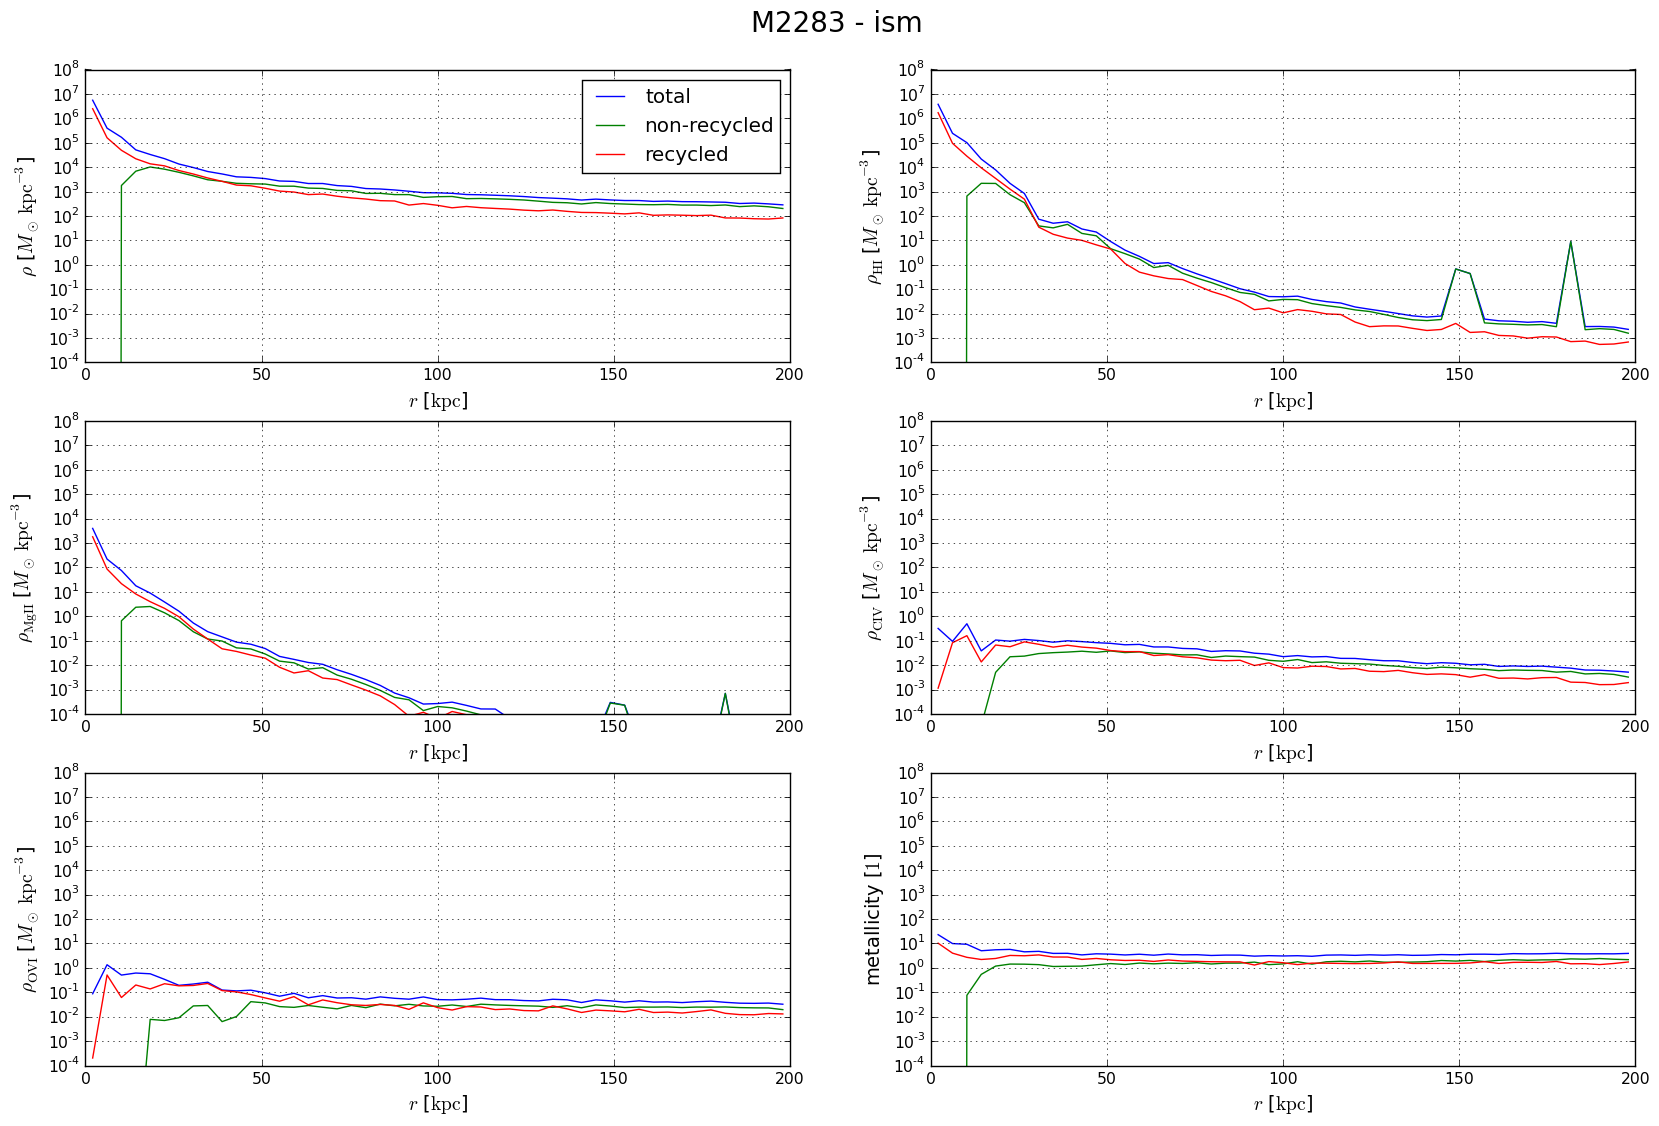
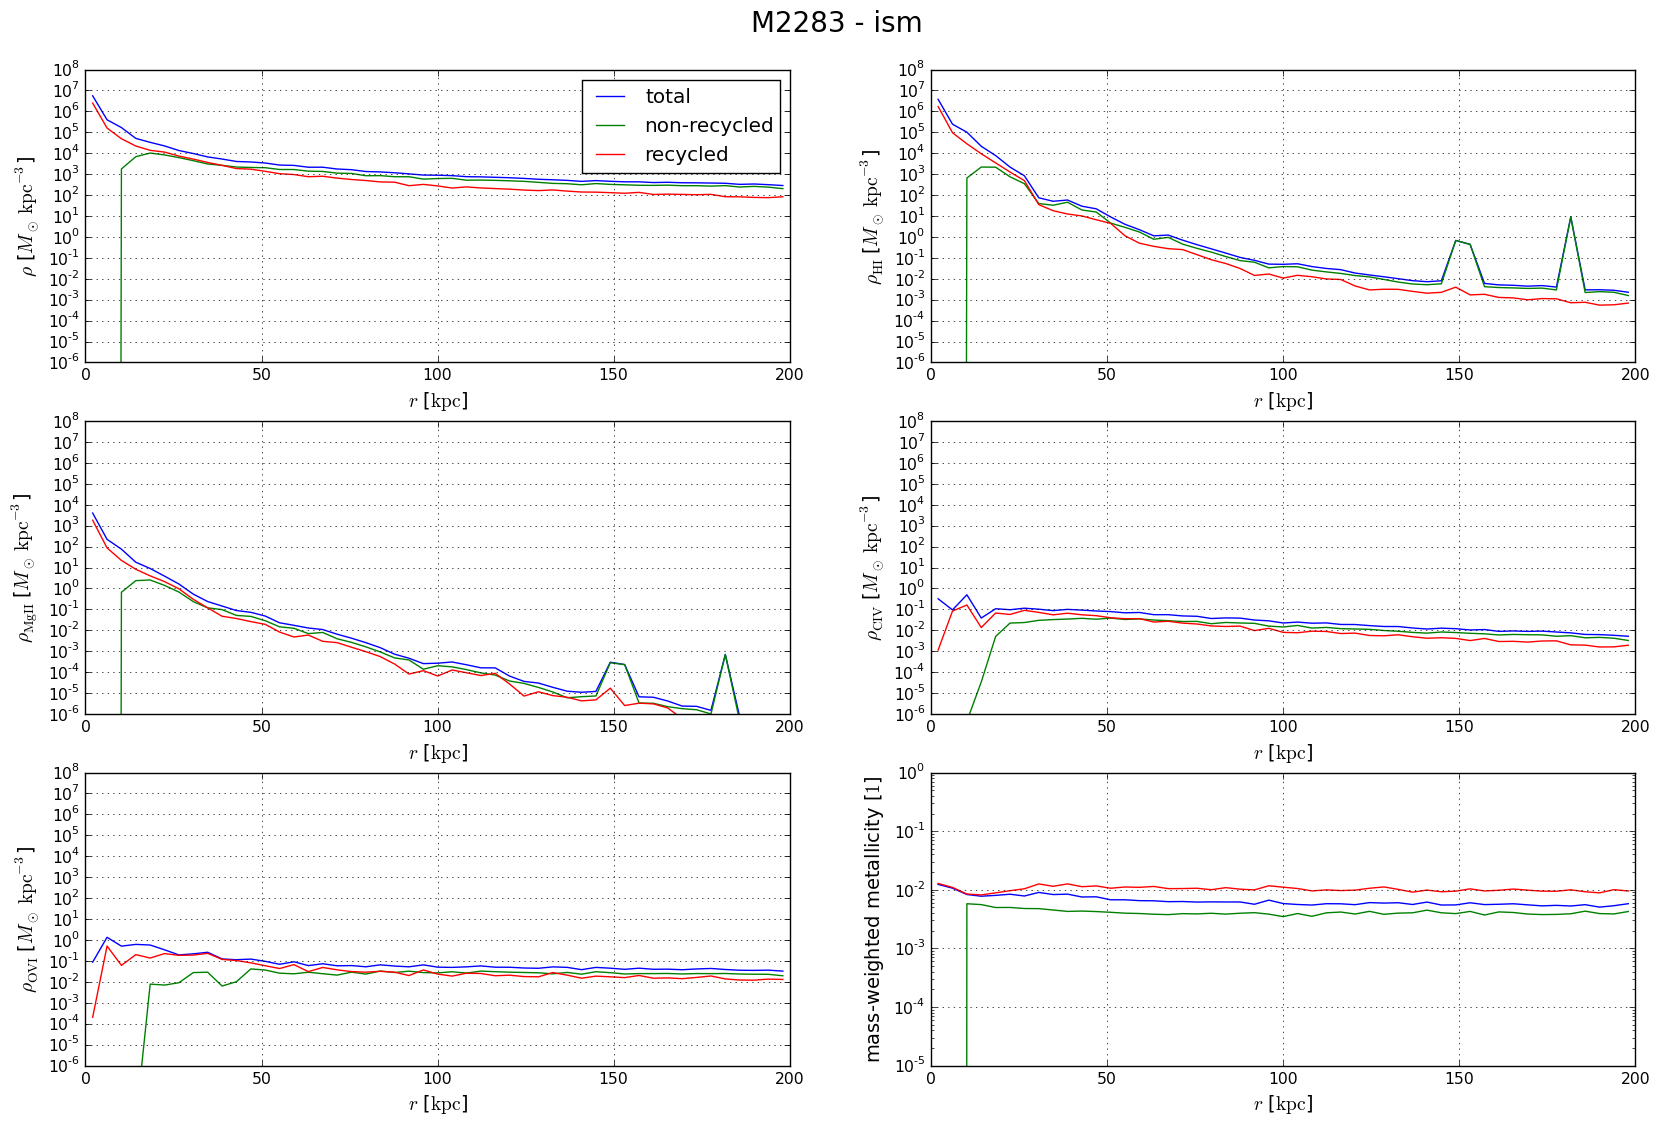
density_profiles fix ylim

diff --git a/1/density_profiles.py b/1/density_profiles.py
@@ -28,36 +28,30 @@ def plot(args):
     pg.plotting.profile(s.gas, '200 kpc', 'mass', ax=ax[0,0], label='total')
     pg.plotting.profile(s.gas[s.gas['num_recycled'] == -1], '200 kpc', 'mass', ax=ax[0,0], label='non-recycled')
     pg.plotting.profile(s.gas[np.max(s.gas['T_at_ejection'] > 0, axis=1)], '200 kpc', 'mass', ax=ax[0,0], label='recycled')
-    ax[0,0].set_ylim((1e4, 1e8))
     ax[0,0].legend(loc='upper right')
 
     pg.plotting.profile(s.gas, '200 kpc', 'HI', ax=ax[0,1], label='total')
     pg.plotting.profile(s.gas[s.gas['num_recycled'] == -1], '200 kpc', 'HI', ax=ax[0,1], label='non-recycled')
     pg.plotting.profile(s.gas[np.max(s.gas['T_at_ejection'] > 0, axis=1)], '200 kpc', 'HI', ax=ax[0,1], label='recycled')
-    ax[0,1].set_ylim((1e0, 1e8))
     
     pg.plotting.profile(s.gas, '200 kpc', 'MgII', ax=ax[1,0], label='total')
     pg.plotting.profile(s.gas[s.gas['num_recycled'] == -1], '200 kpc', 'MgII', ax=ax[1,0], label='non-recycled')
     pg.plotting.profile(s.gas[np.max(s.gas['T_at_ejection'] > 0, axis=1)], '200 kpc', 'MgII', ax=ax[1,0], label='recycled')
-    ax[1,0].set_ylim((1e-4, 1e5))
 
     pg.plotting.profile(s.gas, '200 kpc', 'CIV', ax=ax[1,1], label='total')
     pg.plotting.profile(s.gas[s.gas['num_recycled'] == -1], '200 kpc', 'CIV', ax=ax[1,1], label='non-recycled')
     pg.plotting.profile(s.gas[np.max(s.gas['T_at_ejection'] > 0, axis=1)], '200 kpc', 'CIV', ax=ax[1,1], label='recycled')
-    ax[1,1].set_ylim((1e-1, 1e2))
 
     pg.plotting.profile(s.gas, '200 kpc', 'OVI', ax=ax[2,0], label='total')
     pg.plotting.profile(s.gas[s.gas['num_recycled'] == -1], '200 kpc', 'OVI', ax=ax[2,0], label='non-recycled')
     pg.plotting.profile(s.gas[np.max(s.gas['T_at_ejection'] > 0, axis=1)], '200 kpc', 'OVI', ax=ax[2,0], label='recycled')
-    ax[2,0].set_ylim((1e0, 1e3))
     
-    pg.plotting.profile(s.gas, '200 kpc', 'metallicity', ax=ax[2,1], label='total', dens=False)
-    pg.plotting.profile(s.gas[s.gas['num_recycled'] == -1], '200 kpc', 'metallicity', ax=ax[2,1], label='non-recycled', dens=False)
-    pg.plotting.profile(s.gas[np.max(s.gas['T_at_ejection'] > 0, axis=1)], '200 kpc', 'metallicity', ax=ax[2,1], label='recycled', dens=False)
-    ax[2,1].set_ylim((1e-1, 1e3))
+    pg.plotting.profile(s.gas, '200 kpc', 'metallicity', av='mass', ax=ax[2,1], label='total', dens=False)
+    pg.plotting.profile(s.gas[s.gas['num_recycled'] == -1], '200 kpc', 'metallicity', av='mass', ax=ax[2,1], label='non-recycled', dens=False)
+    pg.plotting.profile(s.gas[np.max(s.gas['T_at_ejection'] > 0, axis=1)], '200 kpc', 'metallicity', av='mass', ax=ax[2,1], label='recycled', dens=False)
 
 
-    for axes in ax.flatten():
+    for axes in ax.flatten()[:-1]:
         axes.grid(True)
         x_limits.append(axes.get_xlim())
         y_limits.append(axes.get_ylim())
@@ -71,7 +65,8 @@ def plot(args):
         return (x_limits, y_limits)
     for axes in ax.flatten():
         axes.set_xlim(args[2][0])
-        axes.set_ylim(args[2][1])
+        axes.set_ylim(1e-6, args[2][1][1])
+    ax[2,1].set_ylim((1e-5, 1e0))
 
     plt.savefig(filename.split("/")[-1][:-3] + '_' + halo + '_' + definition + ".png", bbox_inches='tight')
 p = Pool(4)
